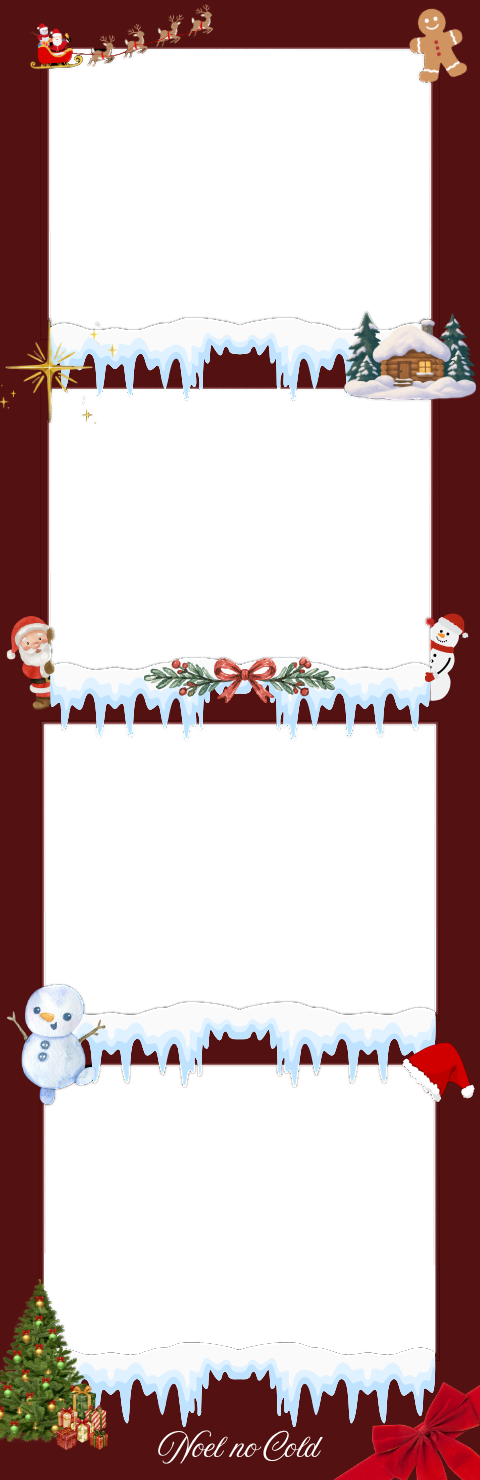
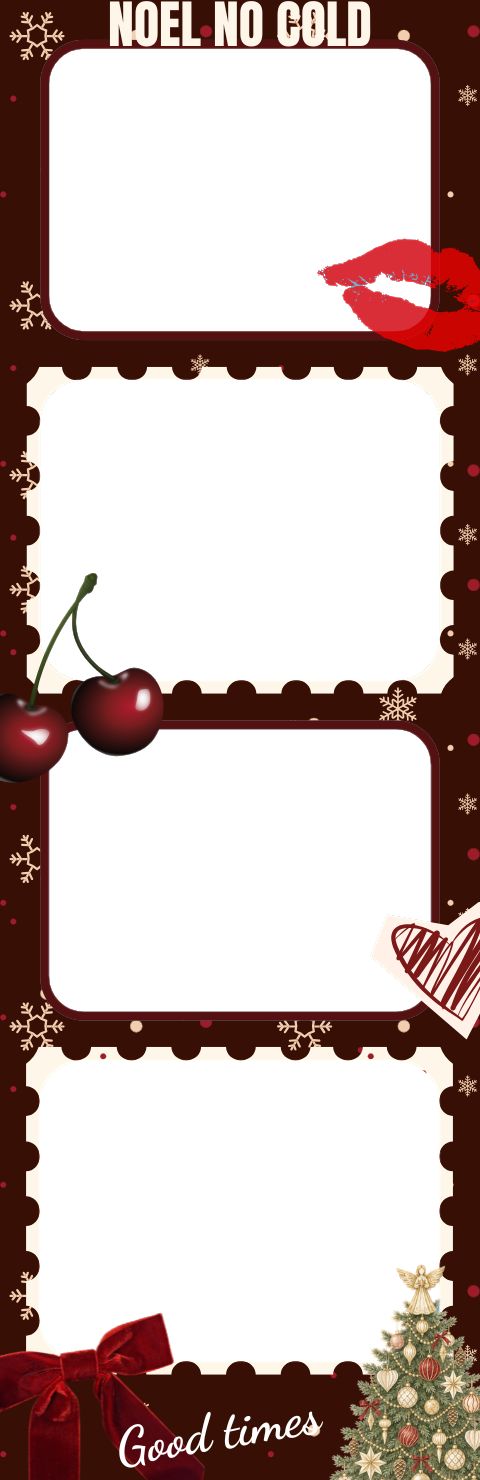
update frame

diff --git a/app.js b/app.js
@@ -63,9 +63,11 @@ function loadTemplatesFromAsset() {
     // Danh sách file template với 2 màu pastel mã hóa trong tên
     const templateFiles = [
         'asset/template_1_fca5a5_fecaca.png',
-        'asset/template_2_bbf7d0_6ee7b7.png',
-        'asset/template_3_fcefdc_fff7d9.png',
+        'asset/template_2_fca5a5_fecaca.png',
+        'asset/template_3_bbf7d0_6ee7b7.png',
         'asset/template_4_bbf7d0_6ee7b7.png',
+        'asset/template_5_fcefdc_fff7d9.png',
+        'asset/template_6_fcefdc_fff7d9.png'
     ];
 
     frameData = templateFiles.map((src, idx) => {
